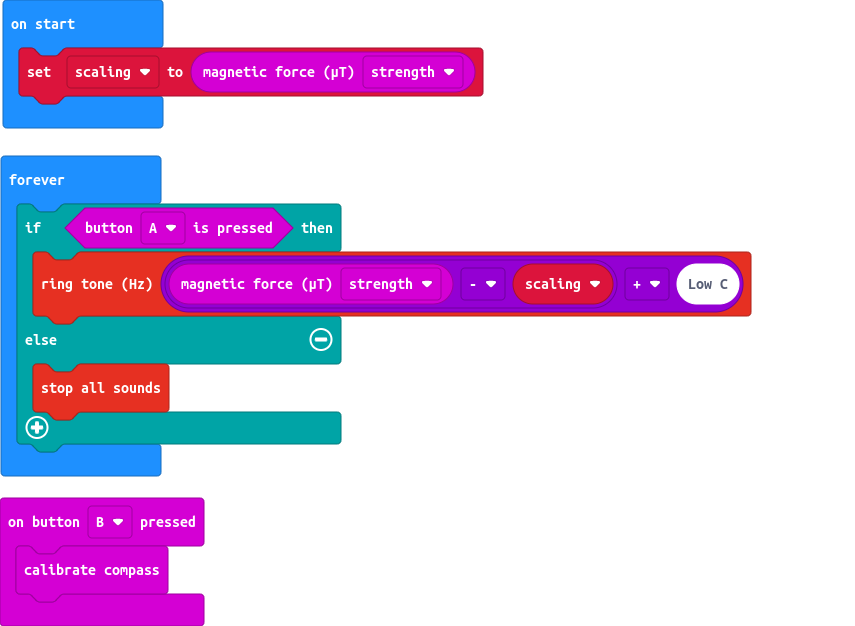
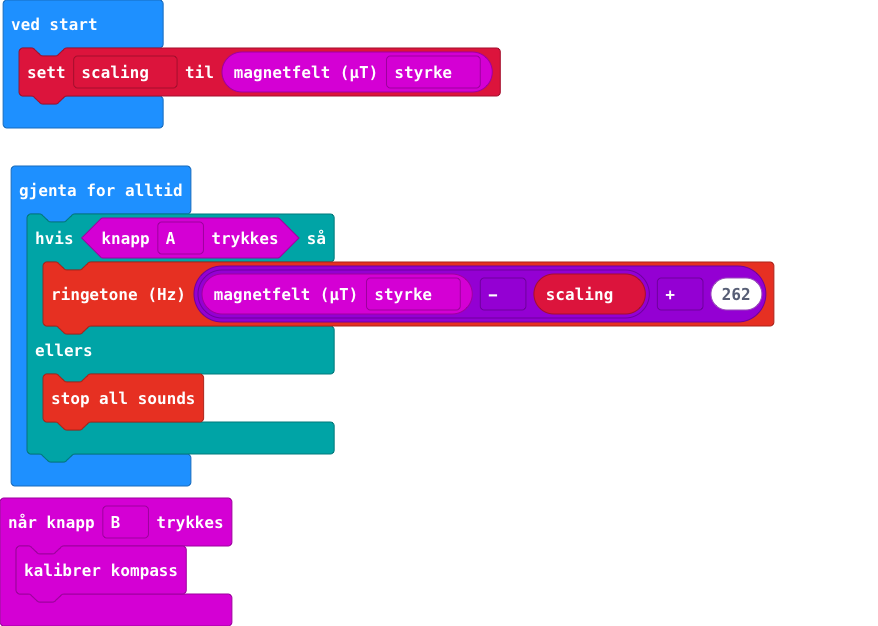
fuksjonell

Changed region(s): [[0.0, 0.2428, 0.8819, 1.0], [0.0304, 0.0, 0.5778, 0.2125], [0.0, 0.0304, 0.1216, 0.0607]]

diff --git a/main.ts b/main.ts
@@ -4,7 +4,7 @@ input.onButtonPressed(Button.B, function () {
 let scaling = input.magneticForce(Dimension.Strength)
 basic.forever(function () {
     if (input.buttonIsPressed(Button.A)) {
-        music.ringTone(input.magneticForce(Dimension.Strength) - scaling + 131)
+        music.ringTone(input.magneticForce(Dimension.Strength) - scaling + 262)
     } else {
         music.stopAllSounds()
     }

diff --git a/main.py b/main.py
@@ -1,0 +1,12 @@
+def on_button_pressed_b():
+    input.calibrate_compass()
+input.on_button_pressed(Button.B, on_button_pressed_b)
+
+scaling = input.magnetic_force(Dimension.STRENGTH)
+
+def on_forever():
+    if input.button_is_pressed(Button.A):
+        music.ring_tone(input.magnetic_force(Dimension.STRENGTH) - scaling + 262)
+    else:
+        music.stop_all_sounds()
+basic.forever(on_forever)
